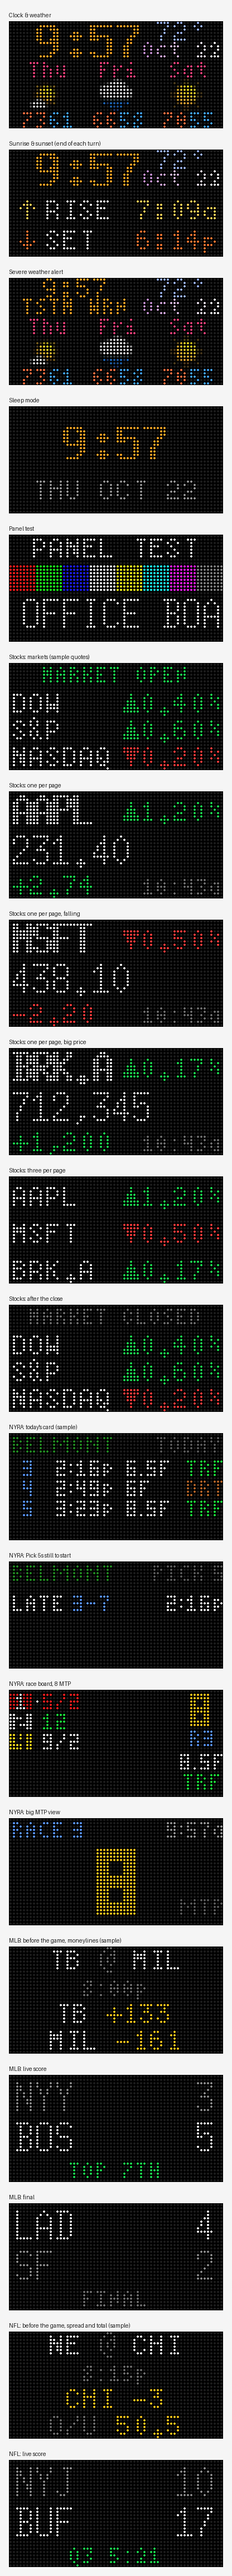
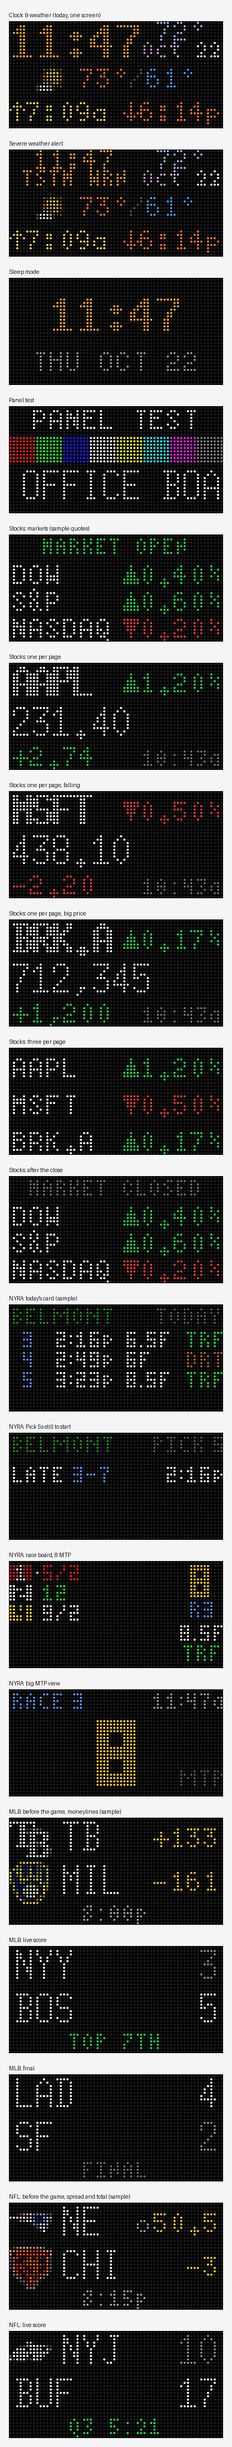
Rebuild the weather into one screen showing today only
Joe's design: the clock & weather module drops the 3-day forecast and
the separate sunrise/sunset screen. One screen keeps itsposttime's top
band (clock, current temperature, date by moon phase), then today's
icon with its high and low, then today's sunrise and sunset. The
sun_seconds setting goes with the second screen.

diff --git a/modules/clock.py b/modules/clock.py
@@ -22,7 +22,7 @@ import requests
 from PIL import Image
 
 import config
-from core import layouts, pixels
+from core import pixels
 from core.module import Module
 from modules import nws
 
@@ -193,14 +193,11 @@ def icon(code):
 class ClockWeather(Module):
     id = "clock"
     name = "Clock & weather"
-    description = "Date, time, current weather, 3-day forecast, sunrise and sunset."
+    description = "Time, date, today's weather (now, high and low), sunrise and sunset, on one screen."
     default_enabled = True
     default_seconds = 20
     fetch_seconds = FETCH_SECONDS
-    fields = [
-        {"key": "sun_seconds", "label": "Sunrise & sunset at the end of each turn (seconds)", "type": "int",
-         "default": 6, "min": 0, "max": 60, "hint": "Shown in place of the forecast. 0 never shows them."},
-    ]
+    fields = []
 
     def __init__(self, board=None):
         super().__init__(board)
@@ -208,8 +205,6 @@ class ClockWeather(Module):
         if cached and cached.get("current_at") and \
                 (datetime.now() - cached["current_at"]).total_seconds() < STALE_SECONDS:
             self.data = cached                 # weather straight after a restart
-        self._frame_key = None
-        self._frame = None
 
     # ---------- fetching ----------
     def fetch(self, now):
@@ -291,12 +286,12 @@ class ClockWeather(Module):
             return CLOCK_UNKNOWN
         return CLOCK_DAY if today["sunrise"] <= now < today["sunset"] else CLOCK_NIGHT
 
-    def sun_times(self, now):
-        """(next sunrise, next sunset) after `now`, or None if not known."""
-        days = self._days(now)
-        rise = next((d["sunrise"] for d in days if d["sunrise"] and d["sunrise"] > now), None)
-        sets = next((d["sunset"] for d in days if d["sunset"] and d["sunset"] > now), None)
-        return (rise, sets) if rise and sets else None
+    def today_sun(self, now):
+        """Today's (sunrise, sunset), or None if not known."""
+        today = self._today(now)
+        if today and today["sunrise"] and today["sunset"]:
+            return today["sunrise"], today["sunset"]
+        return None
 
     def alerts(self, now):
         if not self.board.location["weather_alerts"]:
@@ -308,20 +303,18 @@ class ClockWeather(Module):
         return True             # the clock always has something to show, weather or not
 
     def pages(self, now):
-        """The forecast screen, then sunrise and sunset."""
+        """One screen: the time and today's weather (Joe, Oct 22 2026)."""
         alerts = self.alerts(now)
         alert = alerts[int(now.timestamp() // ALERT_SECONDS) % len(alerts)] if alerts else None
         key = (now.strftime("%Y-%m-%d %H:%M"), repr(alert), id(self.data), self.board.location["clock_format"])
         if getattr(self, "_pages_key", None) != key:
-            self._pages = [self.draw(now, "forecast", alert)]
-            if self.sun_times(now):
-                self._pages.append(self.draw(now, "sun", alert))
+            self._pages = [self.draw(now, alert)]
             self._pages_key = key
         return self._pages
 
     def ticker_items(self, now):
         """For the scrolling layouts: alerts, the time (full ticker only; the split layout's top bar
-        has it), the date, now, today, tomorrow, sunrise and sunset."""
+        has it), the date, now, today, sunrise and sunset."""
         fmt = self.board.location["clock_format"]
         items = [[(a["text"], ALERT_COLOURS.get(a["color"], ALERT_COLOURS["orange"]))] for a in self.alerts(now)]
         if self.layout() == "ticker":
@@ -331,13 +324,11 @@ class ClockWeather(Module):
         if current:
             items.append([(f"{round(current['temp'])}°", blend(TEMP_DRY, TEMP_HUMID, (current.get("humidity") or 0) / 100)),
                           (f" {condition(current.get('code'))}", WHITE)])
-        for i, day in enumerate(self._days(now)[:2]):
-            if day["min"] is None or day["max"] is None:
-                continue
-            name = "TODAY" if day["date"] == now.date() else DAYS[day["date"].weekday()].upper()
-            items.append([(name + " ", DAY_NAME), (f"{day['max']:.0f}", TEMP_MAX), ("/", pixels.DIM),
+        day = self._today(now)
+        if day and day["min"] is not None and day["max"] is not None:
+            items.append([("TODAY ", DAY_NAME), (f"{day['max']:.0f}", TEMP_MAX), ("/", pixels.DIM),
                           (f"{day['min']:.0f}", TEMP_MIN), (f" {condition(day['code'])}", WHITE)])
-        sun = self.sun_times(now)
+        sun = self.today_sun(now)
         if sun:
             items.append([("↑ ", SUNRISE), (short_time(sun[0], fmt), SUNRISE),
                           ("  ↓ ", SUNSET), (short_time(sun[1], fmt), SUNSET)])
@@ -354,44 +345,12 @@ class ClockWeather(Module):
             pixels.draw_text(bar, "small", 63 - pixels.text_width("small", text), 7, colour, text)
         return bar
 
-    def frame(self, now, t):
-        """Roll layout: as pages, but sunrise and sunset slide up over the forecast instead of
-        appearing. Other layouts as for every module."""
-        if self.layout() != "roll":
-            return super().frame(now, t)
-        img = self.page_frame(now, t)
-        secs, sun_secs = self.settings["seconds"], self.settings["sun_seconds"]
-        into = (t % secs) - (secs - sun_secs)
-        if self.sun_times(now) and sun_secs and 0 <= into < layouts.ROLL_SECONDS:
-            return layouts.slide(self.page_frame(now, t - into - 0.001), img, into)
-        return img
-
-    def turn_length(self, now):
-        """The clock's turn is its own setting: sunrise and sunset share the turn with the forecast."""
-        if self.layout() in ("pages", "roll"):
-            return self.settings["seconds"]
-        return super().turn_length(now)
-
-    def page_frame(self, now, t):
-        """Pages layout: the forecast screen, with sunrise and sunset for the last few seconds of the turn."""
-        sun = self.sun_times(now)
-        secs, sun_secs = self.settings["seconds"], self.settings["sun_seconds"]
-        page = "sun" if sun and sun_secs and (t % secs) >= secs - sun_secs else "forecast"
-        alerts = self.alerts(now)
-        slot = int(now.timestamp() // ALERT_SECONDS) % len(alerts) if alerts else None
-        key = (now.strftime("%Y-%m-%d %H:%M"), page, slot, id(self.data), self.board.location["clock_format"])
-        if key != self._frame_key:
-            self._frame = self.draw(now, page, alerts[slot] if alerts else None)
-            self._frame_key = key
-        return self._frame
-
-    def draw(self, now, page, alert=None):
+    def draw(self, now, alert=None):
+        """The one screen: time, temperature and date on top (itsposttime's layout), then today's icon
+        with its high and low, then today's sunrise and sunset."""
         img = pixels.blank()
         self._draw_top(img, now, alert)
-        if page == "sun":
-            self._draw_sun(img, now)
-        else:
-            self._draw_forecast(img, now)
+        self._draw_today(img, now)
         return img
 
     def _draw_top(self, img, now, alert):
@@ -420,34 +379,28 @@ class ClockWeather(Module):
         for i, ch in enumerate(label):
             x += pixels.draw_text(img, "tiny", x, 11, blend(start, end, i / (len(label) - 1)), ch)
 
-    def _draw_forecast(self, img, now):
-        width = 64 // 3
-        offset = 1
-        for day in self._days(now)[:3]:
-            if day["min"] is None or day["max"] is None:
-                offset += width
-                continue
-            name = DAYS[day["date"].weekday()]
-            hi, lo = f"{day['max']:.0f}", f"{day['min']:.0f}"
-            pixels.draw_text(img, "tiny", offset + (width - pixels.text_width("tiny", name)) // 2 + 1, 17,
-                             DAY_NAME, name)
-            ic = icon(day["code"])
+    def _draw_today(self, img, now):
+        today = self._today(now)
+        if today and today["max"] is not None and today["min"] is not None:
+            pieces = [(f"{today['max']:.0f}°", TEMP_MAX), ("/", pixels.DIM), (f"{today['min']:.0f}°", TEMP_MIN)]
+            ic = icon(today["code"])
+            text_w = sum(pixels.text_width("small", t) for t, _ in pieces)
+            width = text_w + (ICON_SIZE + 3 if ic is not None else 0)
+            x = (pixels.WIDTH - width) // 2
             if ic is not None:
-                img.paste(ic, (offset + (width - ICON_SIZE) // 2, 17))
-            hi_w, lo_w = pixels.text_width("tiny", hi), pixels.text_width("tiny", lo)
-            x = offset + (width - hi_w - lo_w - 1) // 2 + 1
-            pixels.draw_text(img, "tiny", x, 32, TEMP_MAX, hi)
-            pixels.draw_text(img, "tiny", x + hi_w, 32, TEMP_MIN, lo)
-            offset += width
-
-    def _draw_sun(self, img, now):
-        rise, sets = self.sun_times(now)
-        fmt = self.board.location["clock_format"]
-        for y, arrow, word, when, colour in ((21, "↑", "RISE", rise, SUNRISE), (30, "↓", "SET", sets, SUNSET)):
-            label = short_time(when, fmt)
-            pixels.draw_text(img, "small", 3, y, colour, arrow)
-            pixels.draw_text(img, "small", 11, y, WHITE, word)
-            pixels.draw_text(img, "small", 63 - pixels.text_width("small", label), y, colour, label)
+                img.paste(ic, (x, 12))
+                x += ICON_SIZE + 3
+            for text, colour in pieces:
+                x += pixels.draw_text(img, "small", x, 20, colour, text)
+        sun = self.today_sun(now)
+        if sun:
+            fmt = self.board.location["clock_format"]
+            rise, sets = "↑" + short_time(sun[0], fmt), "↓" + short_time(sun[1], fmt)
+            gap = max(2, pixels.WIDTH - pixels.text_width("small", rise) - pixels.text_width("small", sets))
+            width = pixels.text_width("small", rise) + min(gap, 8) + pixels.text_width("small", sets)
+            x = (pixels.WIDTH - width) // 2
+            x += pixels.draw_text(img, "small", x, 30, SUNRISE, rise) + min(gap, 8)
+            pixels.draw_text(img, "small", x, 30, SUNSET, sets)
 
     def sleep_frame(self, now):
         """Sleep mode: time and date only."""

diff --git a/tests/test_clock.py b/tests/test_clock.py
@@ -49,35 +49,32 @@ class TestClockScreens(unittest.TestCase):
         self.assertEqual(m.clock_colour(NOW.replace(hour=20)), clock.CLOCK_NIGHT)
         self.assertEqual(module(None).clock_colour(NOW), clock.CLOCK_UNKNOWN)
 
-    def test_next_sunrise_and_sunset(self):
+    def test_todays_sunrise_and_sunset(self):
         m = module(sample_data())
-        self.assertEqual(m.sun_times(NOW), (datetime(2026, 10, 23, 7, 9), datetime(2026, 10, 22, 18, 14)))
-        evening = NOW.replace(hour=19)
-        self.assertEqual(m.sun_times(evening), (datetime(2026, 10, 23, 7, 9), datetime(2026, 10, 23, 18, 14)))
-        self.assertIsNone(module(None).sun_times(NOW))
+        today = (datetime(2026, 10, 22, 7, 9), datetime(2026, 10, 22, 18, 14))
+        self.assertEqual(m.today_sun(NOW), today)
+        self.assertEqual(m.today_sun(NOW.replace(hour=19)), today)      # still today's after sunset
+        self.assertIsNone(module(None).today_sun(NOW))
 
-    def test_forecast_page_draws_clock_temperature_date_and_three_days(self):
-        img = module(sample_data()).draw(NOW, "forecast")
+    def test_one_screen_with_todays_weather_and_sun(self):
+        """Joe's one-page design (Oct 22 2026): time, temperature, date; today's icon, high and low;
+        today's sunrise and sunset. No other days, no second screen."""
+        m = module(sample_data())
+        self.assertEqual(len(m.pages(NOW)), 1)
+        img = m.draw(NOW)
         self.assertIsNotNone(img.crop((0, 0, 40, 12)).getbbox())       # clock
         self.assertIsNotNone(img.crop((40, 0, 64, 6)).getbbox())       # temperature
         self.assertIsNotNone(img.crop((40, 6, 64, 12)).getbbox())      # date
-        for x in (0, 21, 42):
-            self.assertIsNotNone(img.crop((x, 12, x + 21, 32)).getbbox(), x)
-        seen = colours(img)
-        self.assertIn(clock.CLOCK_DAY, seen)
-        self.assertIn(clock.DAY_NAME, seen)
+        middle, bottom = colours(img.crop((0, 12, 64, 22))), colours(img.crop((0, 22, 64, 32)))
+        self.assertIn(clock.TEMP_MAX, middle)                          # today's high...
+        self.assertIn(clock.TEMP_MIN, middle)                          # ...and low
+        self.assertIn(clock.SUNRISE, bottom)
+        self.assertIn(clock.SUNSET, bottom)
+        self.assertNotIn(clock.DAY_NAME, colours(img))                 # no day names: today only
 
-    def test_sun_page_at_the_end_of_each_turn(self):
+    def test_same_screen_all_turn(self):
         m = module(sample_data())
-        m.settings = dict(m.settings, seconds=20, sun_seconds=6)
-        forecast, sun = m.frame(NOW, 2), m.frame(NOW, 15)
-        self.assertIn(clock.DAY_NAME, colours(forecast))
-        self.assertIn(clock.SUNRISE, colours(sun))
-        self.assertIn(clock.SUNSET, colours(sun))
-        self.assertNotIn(clock.DAY_NAME, colours(sun))
-        self.assertIn(clock.SUNRISE, colours(m.frame(NOW, 55)))   # still works on a long single turn
-        m.settings["sun_seconds"] = 0
-        self.assertNotIn(clock.SUNRISE, colours(m.frame(NOW, 15)))
+        self.assertEqual(m.frame(NOW, 2).tobytes(), m.frame(NOW, 15).tobytes())
 
     def test_without_weather_the_clock_still_shows(self):
         m = module(None)

diff --git a/tests/test_layouts.py b/tests/test_layouts.py
@@ -129,8 +129,7 @@ class TestClockLayouts(unittest.TestCase):
 
     def test_ticker_text(self):
         words = " | ".join("".join(t for t, _ in item) for item in self.clock("ticker").ticker_items(NOW))
-        self.assertEqual(words, "10:44 | THU OCT 22 | 72° CLEAR | TODAY 73/61 MOSTLY CLEAR | FRI 66/58 RAIN | "
-                                "↑ 7:09a  ↓ 6:14p")
+        self.assertEqual(words, "10:44 | THU OCT 22 | 72° CLEAR | TODAY 73/61 MOSTLY CLEAR | ↑ 7:09a  ↓ 6:14p")
         split_words = " ".join(t for item in self.clock("split").ticker_items(NOW) for t, _ in item)
         self.assertNotIn("10:44", split_words)                    # the top bar has the time
 
@@ -139,16 +138,10 @@ class TestClockLayouts(unittest.TestCase):
         self.assertIsNotNone(img.crop((0, 0, 30, 9)).getbbox())
         self.assertIsNotNone(img.crop((44, 0, 64, 9)).getbbox())
 
-    def test_roll_pages_are_forecast_then_sun(self):
-        self.assertEqual(len(self.clock("roll").pages(NOW)), 2)
-
-    def test_roll_keeps_sun_at_the_end_of_the_turn_and_slides_it_in(self):
+    def test_roll_shows_the_one_screen_still(self):
         m = self.clock("roll")
-        m.settings = dict(m.settings, seconds=20, sun_seconds=6)
-        forecast, sliding, sun = m.frame(NOW, 13), m.frame(NOW, 14.25), m.frame(NOW, 15)
-        self.assertEqual(forecast.tobytes(), m.page_frame(NOW, 13).tobytes())
-        self.assertEqual(sun.tobytes(), m.page_frame(NOW, 15).tobytes())
-        self.assertNotIn(sliding.tobytes(), (forecast.tobytes(), sun.tobytes()))
+        self.assertEqual(len(m.pages(NOW)), 1)
+        self.assertEqual(m.frame(NOW, 5.2).tobytes(), m.frame(NOW, 1).tobytes())     # nothing slides
         self.assertEqual(m.turn_length(NOW), 20)
 
     def test_roll_is_the_default(self):

diff --git a/tools/preview.py b/tools/preview.py
@@ -47,9 +47,8 @@ frames[0].save("preview.gif", save_all=True, append_images=frames[1:], duration=
 
 # One picture of each screen
 data = clock.data
-screens = [("Clock & weather", clock.draw(start, "forecast")),
-           ("Sunrise & sunset (end of each turn)", clock.draw(start, "sun")),
-           ("Severe weather alert", clock.draw(start, "forecast", {"text": "TSTM WRN", "color": "orange"})),
+screens = [("Clock & weather (today, one screen)", clock.draw(start)),
+           ("Severe weather alert", clock.draw(start, {"text": "TSTM WRN", "color": "orange"})),
            ("Sleep mode", clock.sleep_frame(start)),
            ("Panel test", d.modules["paneltest"].frame(start, 2.5))]
 stocks = d.modules["stocks"]

diff --git a/docs/plan.md b/docs/plan.md
@@ -65,6 +65,10 @@ Do this early: it shapes how every module draws.
 
 ### 1. Clock, date, weather, sun
 - Date, time, current weather, today's forecast, sunrise and sunset.
+- **One-page design (Joe, Oct 22 2026), replacing the 3-day forecast and the separate sun screen:** top
+  band as itsposttime (big clock, current temperature, date tinted by the moon phase); middle line,
+  centred: today's icon, high (orange) / low (blue); bottom line: today's sunrise (yellow ↑) and sunset
+  (orange ↓). Today only. Alerts still shrink the clock. The sun_seconds setting is gone.
 - Port of itsposttime's idle screens (Tomorrow.io + NWS alerts). Open-Meteo is a free, no-key option
   if needed.
 
@@ -142,6 +146,7 @@ Each step ends with a preview (image or GIF) for Joe to approve.
    so it shows straight after a restart. Choices made while building, open to change:
    - Sunrise/sunset show for the last 6 seconds of each clock turn (adjustable, 0 = off), replacing the
      forecast, instead of itsposttime's last 15 seconds of every minute (turns are shorter than a minute).
+     (Replaced Oct 22 2026 by the one-page design, see module 1.)
    - Location, units, clock format, Tomorrow.io key and alerts are board-wide Settings, since other
      modules (games, races) show times too. A separate free Tomorrow.io key from the odds board's is
      suggested.
@@ -153,8 +158,7 @@ Each step ends with a preview (image or GIF) for Joe to approve.
 3. **Scroll experiment**: GIF previews of layouts A-D, then the real panel. Joe picks.
    **Done Oct 22 2026. Joe picked C, Roll, as the board's layout (now the default).** Modules should be
    designed as pages first; ticker text stays so any module can still be switched to a scrolling layout.
-   Clock & weather under Roll keeps its agreed timing: forecast for most of the turn, then sunrise and
-   sunset slide up for the last `sun_seconds`. All four layouts remain selectable (board setting under
+   (Clock & weather is now a single screen, so nothing rolls within its turn.) All four layouts remain selectable (board setting under
    Settings → Display → Layout, or per module on the Modules page). `tools/compare_layouts.py` makes the GIFs. A "Scroll demo" module (made-up stocks, a race,
    games; off by default) gives the layouts realistic content until the real modules exist. Details:
    - Full ticker: 8x13 font, about 8 characters on screen, module name small and dim above the line.

diff --git a/CLAUDE.md b/CLAUDE.md
@@ -56,7 +56,7 @@ Repo: https://github.com/djjoman68/officeboard (public, created Oct 22 2026).
 | `core/pixels.py` | Pillow drawing with the .bdf fonts, `text_strip` + `marquee` for scrolling, `led_preview` |
 | `core/layouts.py` | The four layouts: `roll`, `ticker`, `split`, `text_page`; `join_items` for ticker text |
 | `core/sleep.py` | Sleep schedule, all-day days, Sleep now / Wake now overrides. Pure logic |
-| `modules/clock.py` | Clock & weather: Tomorrow.io fetch + disk cache, itsposttime's layout, sun at end of turn, alerts, sleep screen |
+| `modules/clock.py` | Clock & weather: Tomorrow.io fetch + disk cache, one screen: itsposttime's top band, today's icon + high/low, today's sunrise/sunset; alerts; sleep screen |
 | `modules/nws.py` | Severe weather alerts (from itsposttime) |
 | `modules/stocks.py` | Stocks: Finnhub quotes + market status, Markets page, one page (or 3 rows) per stock |
 | `modules/nyra.py` | NYRA module: card before the window, race in it, near post (takeover at hold_mtp), take-over mode |
